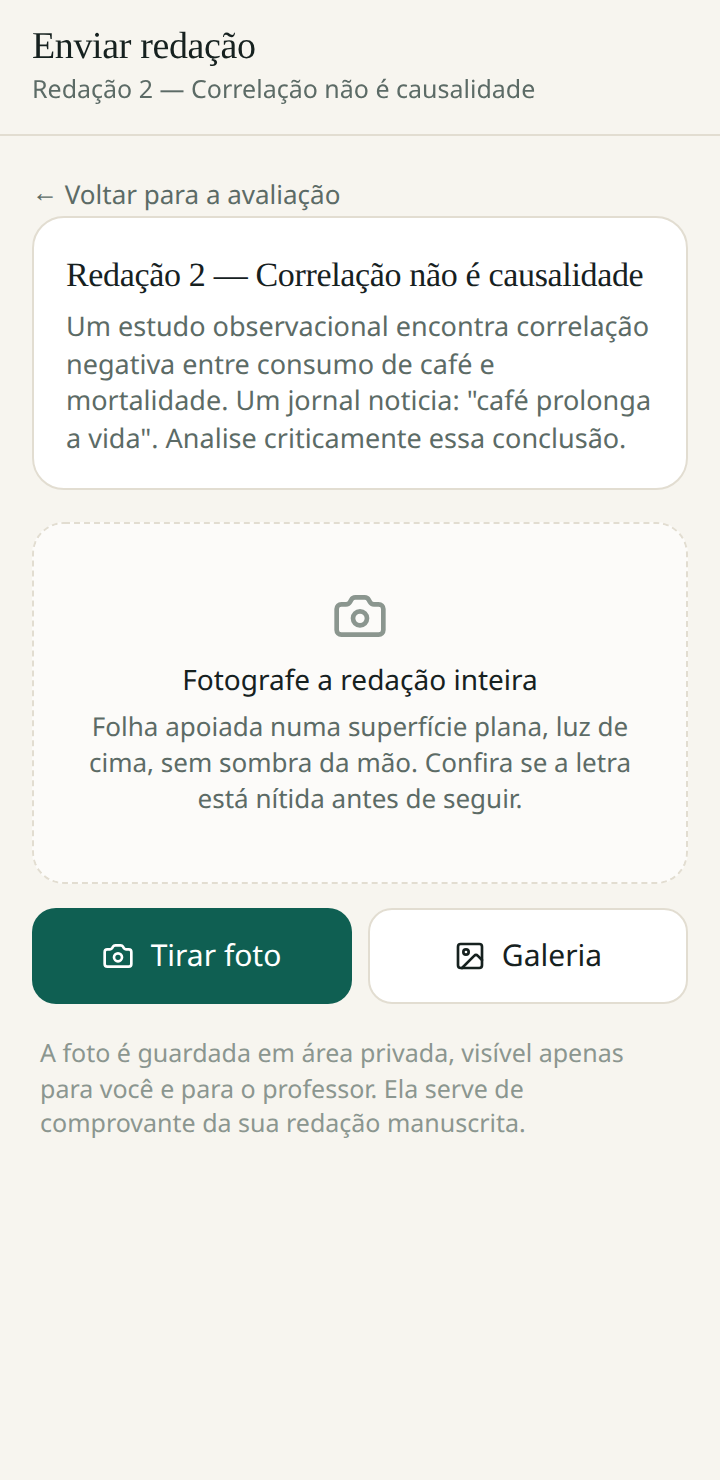
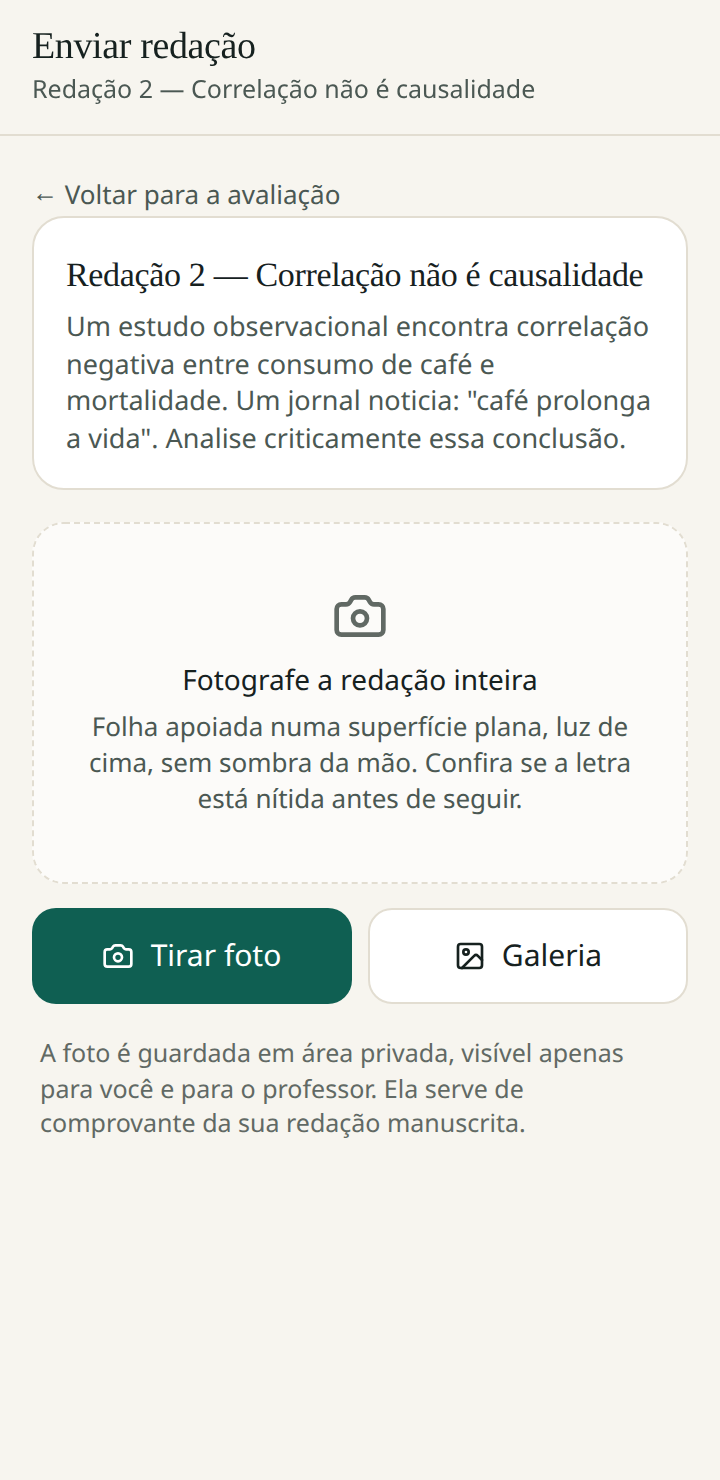
Contraste AA em todo o app, medido por teste; botão desativado legível

Changed region(s): [[0.0611, 0.6838, 0.7333, 0.777], [0.4583, 0.4041, 0.55, 0.4351]]

diff --git a/src/components/ui.tsx b/src/components/ui.tsx
@@ -7,8 +7,11 @@ import { Link } from '../lib/router'
 type Variante = 'primario' | 'secundario' | 'fantasma' | 'perigo' | 'suave'
 
 const variantes: Record<Variante, string> = {
-  primario: 'bg-verde text-white hover:bg-verde-escuro active:bg-verde-escuro disabled:bg-verde/50',
-  secundario: 'bg-white text-tinta border border-borda hover:bg-papel-fundo disabled:text-tinta-fraca',
+  // Desativado continua legível: o rótulo diz o que falta (“Corrigir 0 pendente(s)”)
+  // e precisa ser lido. Antes era verde a 50% com texto branco — 1.09:1.
+  primario:
+    'bg-verde text-white hover:bg-verde-escuro active:bg-verde-escuro disabled:bg-tinta-fraca/25 disabled:text-tinta-suave',
+  secundario: 'bg-white text-tinta border border-borda hover:bg-papel-fundo disabled:bg-papel-fundo disabled:text-tinta-fraca',
   fantasma: 'bg-transparent text-verde hover:bg-verde-claro',
   perigo: 'bg-vermelho text-white hover:bg-vermelho/90',
   suave: 'bg-verde-claro text-verde-escuro hover:bg-verde/15',

diff --git a/src/index.css b/src/index.css
@@ -21,13 +21,17 @@
   --color-papel-fundo: #efece2;
   --color-cartao: #ffffff;
   --color-tinta: #16211f;
-  --color-tinta-suave: #5c6b66;
-  --color-tinta-fraca: #8b968f;
+  /* Contraste medido com `pnpm test:contraste` (WCAG AA, texto pequeno):
+     tinta-suave 6.30 e tinta-fraca 4.79 no pior fundo do app (papel-fundo).
+     Os valores antigos (#5c6b66 e #8b968f) davam 4.74 e 2.59 — o segundo
+     reprovava em todo fundo, e é usado em legendas de 11–12px. */
+  --color-tinta-suave: #4b5853;
+  --color-tinta-fraca: #616964;
   --color-borda: #e2ddd1;
   --color-verde: #0f5f52;
   --color-verde-escuro: #0a443b;
   --color-verde-claro: #e8f1ee;
-  --color-ambar: #b45309;
+  --color-ambar: #a74d08;
   --color-ambar-claro: #fdf3e3;
   --color-vermelho: #b3261e;
   --color-vermelho-claro: #fdeceb;

diff --git a/README.md b/README.md
@@ -233,6 +233,20 @@ campos ausentes, nível declarado que não bate com a nota e citação entre asp
 texto. Não chama o modelo: empacota `api/_lib/rubrica.ts` com esbuild (como a Vercel faz) e testa a
 função que decide a nota.
 
+### Contraste e toque
+
+`pnpm test:contraste` abre 9 telas na demonstração, lê a cor calculada de cada elemento com texto, acha o
+fundo efetivo subindo a árvore e aplica a fórmula de luminância da WCAG. Reprova texto pequeno abaixo de
+4.5:1 e grande abaixo de 3:1. Foi ele que encontrou os dois problemas de hoje: as legendas em
+`tinta-fraca` (#8b968f) davam **2.59:1** em todos os fundos, e os botões desativados saíam a **1.09:1**
+(verde a 50% com texto branco). A paleta mudou (`tinta-suave` #4b5853 = 6.30 · `tinta-fraca` #616964 =
+4.79 · `ambar` #a74d08 = 4.79) e o botão desativado virou cinza com texto escuro — continua dizendo
+“Corrigir 0 pendente(s)”, agora legível.
+
+`pnpm e2e:mobile` mede os alvos de toque das 12 telas principais em 360×740 e reprova qualquer controle
+abaixo de 40px. Foi ele que achou as abas “Transcrição/Foto original” (32px) e o “Voltar para a lista”
+(20px) na tela de revisão.
+
 ### Ligar a IA em um comando
 
 A correção precisa de um LLM compatível com OpenAI (o Llama no Coolify, por exemplo) e a leitura da foto
